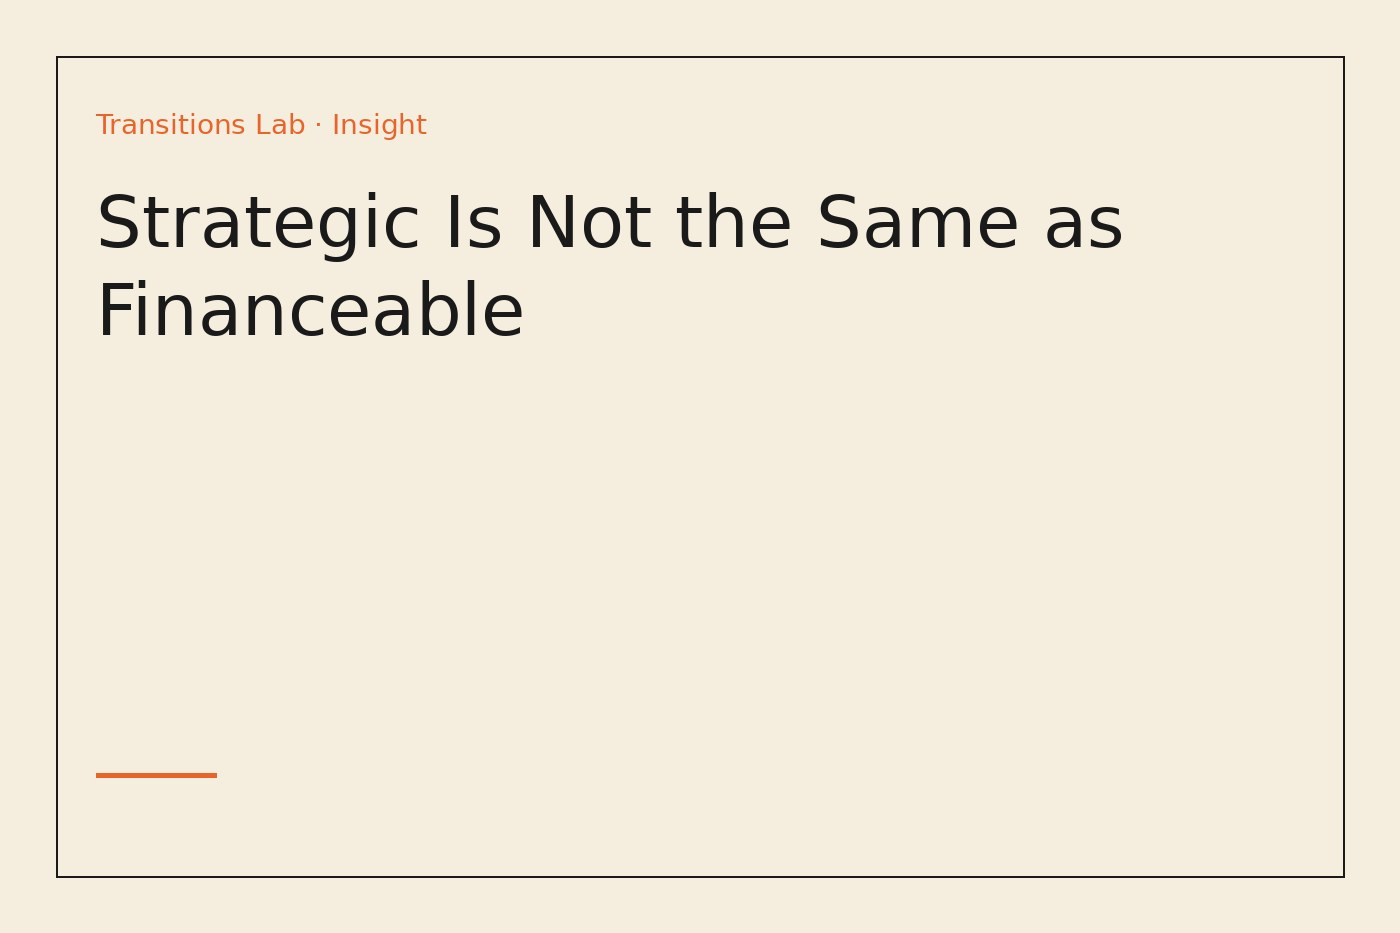
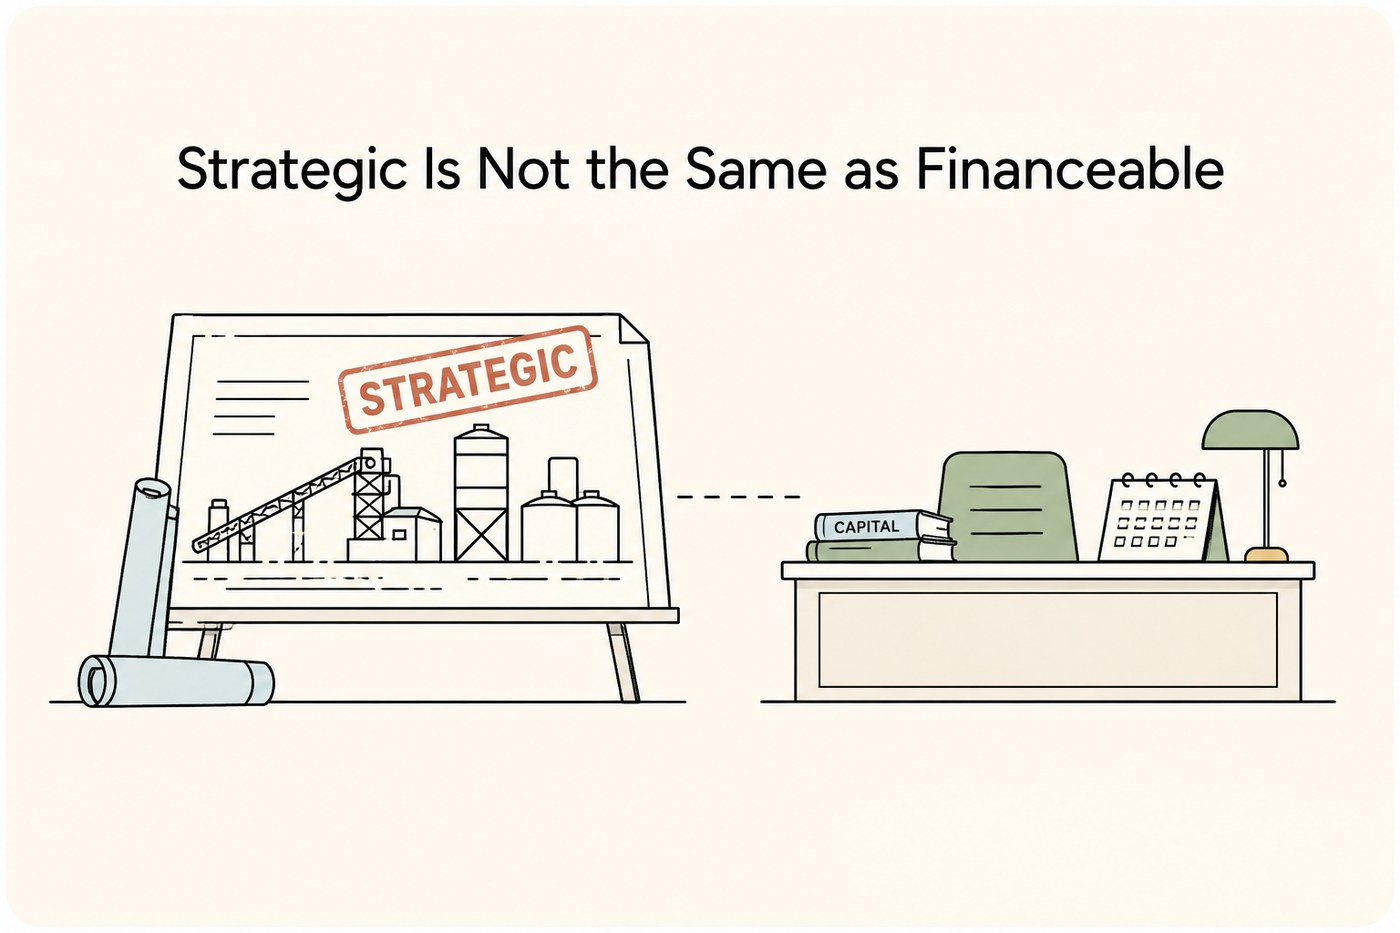
Illustrated heroes for Survey and Strategic plus three in-body figures
Swaps the placeholder butter heroes for the Register A title cards
for The Survey Is the First Act of the Mine (satellite emitting
optical rays and radar arcs through cloud onto a contoured landscape,
with a locked cabinet and three figures on the right) and Strategic
Is Not the Same as Financeable (an unbuilt processing plant proposal
on a drawing board with a large STRATEGIC stamp across it, and a
banker's desk with a capital ledger and a calendar with no date
circled).

Three in-body figures added. The clockwise feedback loop (higher
ambient temperature to more cooling energy to more electricity to
more firm capacity built to more emissions, with the closing arrow
labelled 'slower, larger, and not on anybody's balance sheet' and a
water droplet aside) lands inside 'The feedback that makes it worse'
on Load. The two 24-hour load profiles (blue flat, coral flat plus
cooling bulging at 18:00 with the shared 'system peak' vertical
dashed line) lands under the coincident-peak paragraph in 'What
follows for the region'. The three-groups sample diagram (adopted-
and-surveyed solid, tried-and-stopped dashed, never-took-it-up
outside any box, with the bracket 'where the finding is, and where
the list does not exist' spanning the second and third) lands under
the abandonment point in 'What this would mean in a Horizon project'
on Adoption.

Claude-Session: https://claude.ai/code/session_01UTkcwmfvBCDVuALj2XrD2r

Changed region(s): [[0.0, 0.0, 1.0, 1.0], [0.0614, 0.8081, 0.1536, 0.8392]]

diff --git a/insight-load-that-grows-when-hot.html b/insight-load-that-grows-when-hot.html
@@ -125,6 +125,9 @@
 <h2>The feedback that makes it worse</h2>
 <p>There is a loop here worth setting out explicitly, because each step is individually unremarkable and the sequence is not.</p>
 <p>Higher ambient temperature raises cooling demand. Higher cooling demand raises electricity consumption. In Malaysia's case, the projected response is additional gas-fired capacity, up to 9 gigawatts by 2032, because gas is what can be built at that speed and can follow load. Additional gas generation adds emissions. Emissions contribute, at a global scale, to the warming that raised the ambient temperature.</p>
+<figure>
+<img src="/assets/img/insight-load-that-grows-when-hot-loop.jpg?v=0f9d3a74" alt="Diagram: five labelled objects arranged in a clockwise loop. A sun with heat lines labelled 'higher ambient temperature', a rooftop chiller unit labelled 'more cooling energy', a meter dial labelled 'more electricity', a gas turbine and factory labelled 'more firm capacity built', and a small emissions cloud labelled 'more emissions'. The final closing arrow from emissions back to the sun is drawn lighter and longer, annotated 'slower, larger, and not on anybody's balance sheet'. Beside the loop, a small water droplet with a downward arrow labelled 'and the same story for water'." class="diagram">
+</figure>
 <p>No single link in that chain is surprising. The consequence is that the electricity requirement of a data centre built in a hot climate is not a fixed number. It is a number that rises over the asset's life, in the same direction as the climate, and both the grid plan and the developer's cost model typically hold it constant.</p>
 <p>There is a second-order version affecting water. Evaporative cooling is efficient and it consumes water, and it consumes more of it in exactly the conditions when water is scarcest. A facility designed around evaporative cooling in a drought-exposed catchment has a demand profile correlated with drought, which is the same structural problem in a different resource.</p>
 <aside class="tl-box">
@@ -138,6 +141,9 @@
 <h2>What follows for the region</h2>
 <p>Southeast Asia is acquiring data centre load quickly, and the tariffs and connection agreements being signed now will govern for a decade or more. Four things are decided in those documents and are worth deciding deliberately.</p>
 <p><strong>Whether the tariff prices coincident peak.</strong> A demand charge based on a facility's contribution at system peak, rather than on its annual energy, would price the actual cost imposed. This is standard practice for large industrial customers in many systems and it is frequently waived to attract data centre investment.</p>
+<figure>
+<img src="/assets/img/insight-load-that-grows-when-hot-bills.jpg?v=398e761f" alt="Chart, 'Identical bills, very different costs'. Two 24-hour load profiles side by side. Left blue profile perfectly flat across the day, labelled 'truly flat load'. Right coral profile flat for most of the day with a pronounced bulge in the late afternoon around 18:00, labelled 'flat load plus cooling' with a subtitle 'the same annual energy, and new capacity required'. Vertical dashed cobalt line through both charts at 18:00 labelled 'system peak'. Footnote: Schematic. Transitions Lab, 2026." class="diagram">
+</figure>
 <p><strong>Whether flexibility is contracted rather than hoped for.</strong> Some computing can be shifted in time or place. Some cannot. A connection agreement that specifies how much load can be curtailed or deferred on a system peak day, and at what compensation, converts an unpriced risk into a contracted service. We described <a href="/insight-paying-for-what-we-curtail">the missing market for flexibility</a> in a Kenyan context, and here the counterparty is large, sophisticated and entirely capable of participating if there is a product to buy.</p>
 <p><strong>Whether the cooling design is specified against a hot year, not an average one.</strong> This is an engineering decision with a grid consequence, and the grid is not usually in the room when it is made.</p>
 <p><strong>Whether the generation being built to serve it is the generation the country wanted.</strong> Nine gigawatts of gas commissioned to serve a load that arrives faster than clean firm capacity can be built is a thirty-year asset acquired to solve a five-year timing problem, and it will still be there long after the timing problem has passed. The <a href="/insight-customers-who-can-leave">customers who can build their own supply</a> have options here that the rest of the system does not.</p>

diff --git a/articles.html b/articles.html
@@ -147,7 +147,7 @@
   <p class="filter-empty" hidden>No articles match that combination. <button type="button" class="filter-reset">Reset filters</button></p>
 </div>
 <div class="article-list"><div class="article-item has-thumb" data-category="industrial-policy" data-geography="global" data-month="2026-09">
-    <a class="article-thumb-link" href="/insight-survey-first-act-of-the-mine"><img class="article-thumb" src="/assets/img/insight-survey-first-act-of-the-mine-hero.jpg?v=e4b84331" alt="Line-art: a small satellite in orbit emitting straight optical rays and concentric radar arcs through a band of cloud onto a landscape of contour lines, with a locked archive cabinet standing at the edge between the landscape and small figures."></a>
+    <a class="article-thumb-link" href="/insight-survey-first-act-of-the-mine"><img class="article-thumb" src="/assets/img/insight-survey-first-act-of-the-mine-hero.jpg?v=74665e93" alt="Line-art: a small satellite in orbit emitting straight optical rays and concentric radar arcs through a band of cloud onto a landscape of contour lines, with a locked archive cabinet standing at the edge between the landscape and small figures."></a>
     <div class="article-body">
       <a class="article-title" href="/insight-survey-first-act-of-the-mine">The Survey Is the First Act of the Mine</a>
       <div class="article-meta">8 September 2026</div>
@@ -163,7 +163,7 @@
       <p class="article-desc">Europe has identified the gap between research and uptake. Filling it means treating uptake as science rather than outreach.</p>
     </div>
   </div><div class="article-item has-thumb" data-category="finance" data-geography="europe" data-month="2026-09">
-    <a class="article-thumb-link" href="/insight-strategic-not-financeable"><img class="article-thumb" src="/assets/img/insight-strategic-not-financeable-hero.jpg?v=6b72fe31" alt="Line-art scene: a processing plant drawn in outline as an unbuilt proposal on a drawing board, with a large ornate stamp reading STRATEGIC pressed across it, while beside the board a banker's desk holds a closed ledger and a calendar with no date circled."></a>
+    <a class="article-thumb-link" href="/insight-strategic-not-financeable"><img class="article-thumb" src="/assets/img/insight-strategic-not-financeable-hero.jpg?v=781b0851" alt="Line-art scene: a processing plant drawn in outline as an unbuilt proposal on a drawing board, with a large ornate stamp reading STRATEGIC pressed across it, while beside the board a banker's desk holds a closed ledger and a calendar with no date circled."></a>
     <div class="article-body">
       <a class="article-title" href="/insight-strategic-not-financeable">Strategic Is Not the Same as Financeable</a>
       <div class="article-meta">8 September 2026</div>

diff --git a/insight-adoption-is-the-research.html b/insight-adoption-is-the-research.html
@@ -145,6 +145,9 @@
 <p><strong>Fund the post-pilot period, not the pilot.</strong> The most valuable observations in the cookstove literature came from years two, three and four, after the project would normally have closed. A three-year Horizon project that ends when deployment begins has stopped measuring at the point the interesting variation starts. Even a small extension of monitoring, decoupled from the delivery consortium, would change what is learnable.</p>
 <p><strong>Measure use, not distribution.</strong> Stoves distributed is an output. Stoves lit is an outcome, and the difference between them was the entire finding. In agriculture the equivalents are hectares under a practice versus hectares still under it in season four, and sensors installed versus sensors read by somebody who acted on the reading.</p>
 <p><strong>Report abandonment as a result.</strong> A farmer who tried a practice and stopped holds the most informative account available, and no current reporting template asks for it. This is the same <a href="/insight-trough-before-the-dividend">selection problem</a> that makes a set of successful case studies an unreliable guide to what will happen next.</p>
+<figure>
+<img src="/assets/img/insight-adoption-is-the-research-sample.jpg?v=f849032a" alt="Diagram: three groups of small human figures along a ground line. First group, eight solid cobalt figures inside a bordered box labelled 'adopted, and surveyed'. Second group, five sky-blue figures inside a dashed box labelled 'tried it and stopped'. Third group, six faint figures with no box labelled 'never took it up'. A bracket spans the second and third groups, labelled 'where the finding is, and where the list does not exist'." class="diagram">
+</figure>
 <p><strong>Separate the evaluator from the deliverer.</strong> A consortium reporting on its own uptake is being asked to hold two positions. The cookstove finding exists because a research team with no stake in the distribution programme measured it independently, four years later, and was free to publish a null result.</p>
 <p>That last point is where most of the difficulty sits, and it is organisational rather than intellectual.</p>
 <hr>

diff --git a/insight-survey-first-act-of-the-mine.html b/insight-survey-first-act-of-the-mine.html
@@ -106,7 +106,7 @@
       
       <p class="article-meta"><span class="article-date">8 September 2026</span> · <span class="article-reading-time">5 min read</span></p>
 <figure>
-<img src="/assets/img/insight-survey-first-act-of-the-mine-hero.jpg?v=e4b84331" alt="Line-art scene: a small satellite in orbit above a curved section of the earth, emitting two distinct beams towards the ground, one drawn as straight optical rays and one as concentric radar arcs, passing through a band of cloud. Below, a landscape of hills and river valleys rendered in fine contour lines, with a locked archive cabinet standing at the edge of the frame between the landscape and a group of small figures." class="diagram">
+<img src="/assets/img/insight-survey-first-act-of-the-mine-hero.jpg?v=74665e93" alt="Line-art scene: a small satellite in orbit above a curved section of the earth, emitting two distinct beams towards the ground, one drawn as straight optical rays and one as concentric radar arcs, passing through a band of cloud. Below, a landscape of hills and river valleys rendered in fine contour lines, with a locked archive cabinet standing at the edge of the frame between the landscape and a group of small figures." class="diagram">
 <figcaption>Two ways of seeing the same ground, and a cabinet that decides who is shown it.</figcaption>
 </figure>
 <h2>Two announcements about knowing what is there, and who is allowed to know it</h2>

diff --git a/insight-strategic-not-financeable.html b/insight-strategic-not-financeable.html
@@ -106,7 +106,7 @@
       
       <p class="article-meta"><span class="article-date">8 September 2026</span> · <span class="article-reading-time">5 min read</span></p>
 <figure>
-<img src="/assets/img/insight-strategic-not-financeable-hero.jpg?v=6b72fe31" alt="Line-art scene: a processing plant drawn in outline as an unbuilt proposal on a drawing board, with a large ornate stamp reading STRATEGIC pressed across it, while beside the board a banker's desk holds a closed ledger and a calendar with no date circled." class="diagram">
+<img src="/assets/img/insight-strategic-not-financeable-hero.jpg?v=781b0851" alt="Line-art scene: a processing plant drawn in outline as an unbuilt proposal on a drawing board, with a large ornate stamp reading STRATEGIC pressed across it, while beside the board a banker's desk holds a closed ledger and a calendar with no date circled." class="diagram">
 <figcaption>The designation is real. So is the calendar with nothing on it.</figcaption>
 </figure>
 <h2>Why a designation and a subsidy do not move a final investment decision</h2>

diff --git a/index.html b/index.html
@@ -243,7 +243,7 @@
       </a>
       <a class="insight-card has-photo" href="/insight-survey-first-act-of-the-mine">
         <div class="card-photo">
-          <img src="/assets/img/insight-survey-first-act-of-the-mine-hero.jpg?v=e4b84331" alt="Line-art scene: a small satellite in orbit emitting straight optical rays and concentric radar arcs through a band of cloud onto a landscape of contour lines, with a locked archive cabinet standing at the edge between the landscape and small figures.">
+          <img src="/assets/img/insight-survey-first-act-of-the-mine-hero.jpg?v=74665e93" alt="Line-art scene: a small satellite in orbit emitting straight optical rays and concentric radar arcs through a band of cloud onto a landscape of contour lines, with a locked archive cabinet standing at the edge between the landscape and small figures.">
           <span class="kicker">Insight &middot; Minerals &amp; Information</span>
         </div>
         <div class="body">

diff --git a/content/insight-load-that-grows-when-hot.md b/content/insight-load-that-grows-when-hot.md
@@ -44,6 +44,10 @@ There is a loop here worth setting out explicitly, because each step is individu
 
 Higher ambient temperature raises cooling demand. Higher cooling demand raises electricity consumption. In Malaysia's case, the projected response is additional gas-fired capacity, up to 9 gigawatts by 2032, because gas is what can be built at that speed and can follow load. Additional gas generation adds emissions. Emissions contribute, at a global scale, to the warming that raised the ambient temperature.
 
+<figure>
+<img src="/assets/img/insight-load-that-grows-when-hot-loop.jpg" alt="Diagram: five labelled objects arranged in a clockwise loop. A sun with heat lines labelled 'higher ambient temperature', a rooftop chiller unit labelled 'more cooling energy', a meter dial labelled 'more electricity', a gas turbine and factory labelled 'more firm capacity built', and a small emissions cloud labelled 'more emissions'. The final closing arrow from emissions back to the sun is drawn lighter and longer, annotated 'slower, larger, and not on anybody's balance sheet'. Beside the loop, a small water droplet with a downward arrow labelled 'and the same story for water'." class="diagram">
+</figure>
+
 No single link in that chain is surprising. The consequence is that the electricity requirement of a data centre built in a hot climate is not a fixed number. It is a number that rises over the asset's life, in the same direction as the climate, and both the grid plan and the developer's cost model typically hold it constant.
 
 There is a second-order version affecting water. Evaporative cooling is efficient and it consumes water, and it consumes more of it in exactly the conditions when water is scarcest. A facility designed around evaporative cooling in a drought-exposed catchment has a demand profile correlated with drought, which is the same structural problem in a different resource.
@@ -63,6 +67,10 @@ There is a second-order version affecting water. Evaporative cooling is efficien
 Southeast Asia is acquiring data centre load quickly, and the tariffs and connection agreements being signed now will govern for a decade or more. Four things are decided in those documents and are worth deciding deliberately.
 
 **Whether the tariff prices coincident peak.** A demand charge based on a facility's contribution at system peak, rather than on its annual energy, would price the actual cost imposed. This is standard practice for large industrial customers in many systems and it is frequently waived to attract data centre investment.
+
+<figure>
+<img src="/assets/img/insight-load-that-grows-when-hot-bills.jpg" alt="Chart, 'Identical bills, very different costs'. Two 24-hour load profiles side by side. Left blue profile perfectly flat across the day, labelled 'truly flat load'. Right coral profile flat for most of the day with a pronounced bulge in the late afternoon around 18:00, labelled 'flat load plus cooling' with a subtitle 'the same annual energy, and new capacity required'. Vertical dashed cobalt line through both charts at 18:00 labelled 'system peak'. Footnote: Schematic. Transitions Lab, 2026." class="diagram">
+</figure>
 
 **Whether flexibility is contracted rather than hoped for.** Some computing can be shifted in time or place. Some cannot. A connection agreement that specifies how much load can be curtailed or deferred on a system peak day, and at what compensation, converts an unpriced risk into a contracted service. We described [the missing market for flexibility](/insight-paying-for-what-we-curtail) in a Kenyan context, and here the counterparty is large, sophisticated and entirely capable of participating if there is a product to buy.
 

diff --git a/content/insight-adoption-is-the-research.md b/content/insight-adoption-is-the-research.md
@@ -76,6 +76,10 @@ Four concrete changes, none of which requires new instruments.
 
 **Report abandonment as a result.** A farmer who tried a practice and stopped holds the most informative account available, and no current reporting template asks for it. This is the same [selection problem](/insight-trough-before-the-dividend) that makes a set of successful case studies an unreliable guide to what will happen next.
 
+<figure>
+<img src="/assets/img/insight-adoption-is-the-research-sample.jpg" alt="Diagram: three groups of small human figures along a ground line. First group, eight solid cobalt figures inside a bordered box labelled 'adopted, and surveyed'. Second group, five sky-blue figures inside a dashed box labelled 'tried it and stopped'. Third group, six faint figures with no box labelled 'never took it up'. A bracket spans the second and third groups, labelled 'where the finding is, and where the list does not exist'." class="diagram">
+</figure>
+
 **Separate the evaluator from the deliverer.** A consortium reporting on its own uptake is being asked to hold two positions. The cookstove finding exists because a research team with no stake in the distribution programme measured it independently, four years later, and was free to publish a null result.
 
 That last point is where most of the difficulty sits, and it is organisational rather than intellectual.
